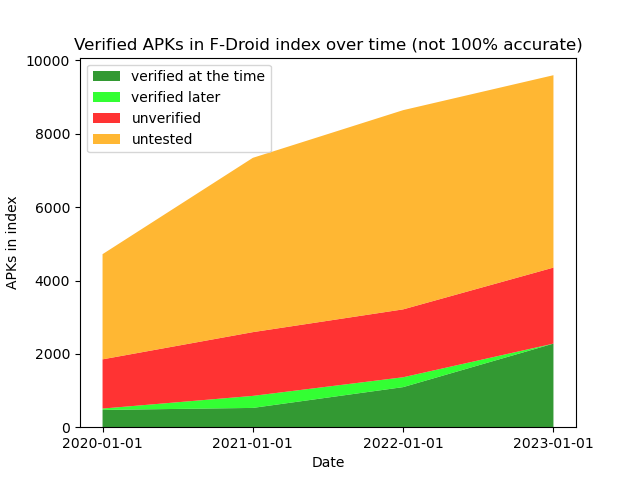
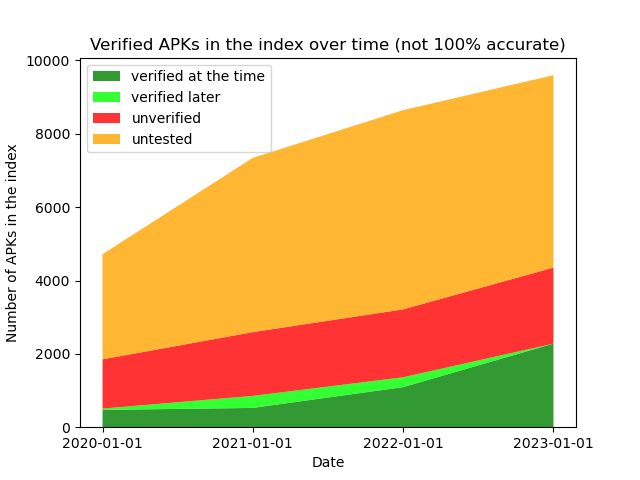
improve & run create-graphs.py

Changed region(s): [[0.125, 0.0625, 0.9062, 0.125], [0.0, 0.3125, 0.0312, 0.7188]]

diff --git a/scripts/create-graphs.py b/scripts/create-graphs.py
@@ -87,7 +87,8 @@ def read_rems_data(dates: List[str]) -> Any:
 def read_veri_apks_data() -> Tuple[Any, Any]:
     with open("verification/data.json") as fh:
         veri_data = json.load(fh)
-    data = [[len(v["verified_apks"]), len(v["unverified_apks"])] for v in veri_data.values()]
+    data = [_abs_to_pct([len(v["verified_apks"]), len(v["unverified_apks"])])
+            for v in veri_data.values()]
     return np.arange(0, len(data)), np.transpose(data)
 
 
@@ -112,7 +113,7 @@ def read_veri_idx_data() -> Tuple[Any, Any]:
                     untested += 1
             else:
                 untested += 1
-        data.append([verified, unverified, untested])
+        data.append(_abs_to_pct([verified, unverified, untested]))
     return np.arange(0, len(data)), np.transpose(data)
 
 
@@ -157,6 +158,11 @@ def _rb_filter_apps(fh: TextIO) -> Set[str]:
         if not any(t in tags for t in skip):
             apps.add(appid)
     return apps
+
+
+def _abs_to_pct(values: List[int]) -> List[int]:
+    tot = sum(values)
+    return [round(100 * x / tot) for x in values]
 
 
 def plot_rb_data(what: str, title: str, x: List[str], data: Any) -> None:
@@ -232,23 +238,23 @@ def create_graphs() -> None:
     data_rems = read_rems_data(dates[1:])
     plot_apps_data("rems", title_rems, dates[1:], data_rems, ylabel="Number of removed apps")
 
-    title_veri_apks = "APKs verified by the F-Droid Verification Server"
+    title_veri_apks = "APKs verified by the Verification Server"
     x_veri_apks, data_veri_apks = read_veri_apks_data()
     plot_veri_data("veri_apks", title_veri_apks, x_veri_apks, data_veri_apks,
-                   ylabel="APKs for which verification was attempted")
+                   ylabel="% of tested APKs")
 
-    title_veri_idx = "Verified APKs in F-Droid index"
+    title_veri_idx = "Verified APKs in the index"
     x_veri_idx, data_veri_idx = read_veri_idx_data()
     plot_veri_data("veri_idx", title_veri_idx, x_veri_idx, data_veri_idx,
-                   ylabel="APKs in index")
+                   ylabel="% of APKs in the index")
 
     idx_dates = [os.path.basename(f)[11:-5] for f in
                  sorted(glob.glob("verification/index-apks-*.json"))]
 
-    title_veri_idx_t = "Verified APKs in F-Droid index over time (not 100% accurate)"
+    title_veri_idx_t = "Verified APKs in the index over time (not 100% accurate)"
     data_veri_idx_t = read_veri_idx_t_data(idx_dates)
     plot_veri_t_data("veri_idx_t", title_veri_idx_t, idx_dates, data_veri_idx_t,
-                     ylabel="APKs in index")
+                     ylabel="Number of APKs in the index")
 
 
 if __name__ == "__main__":
